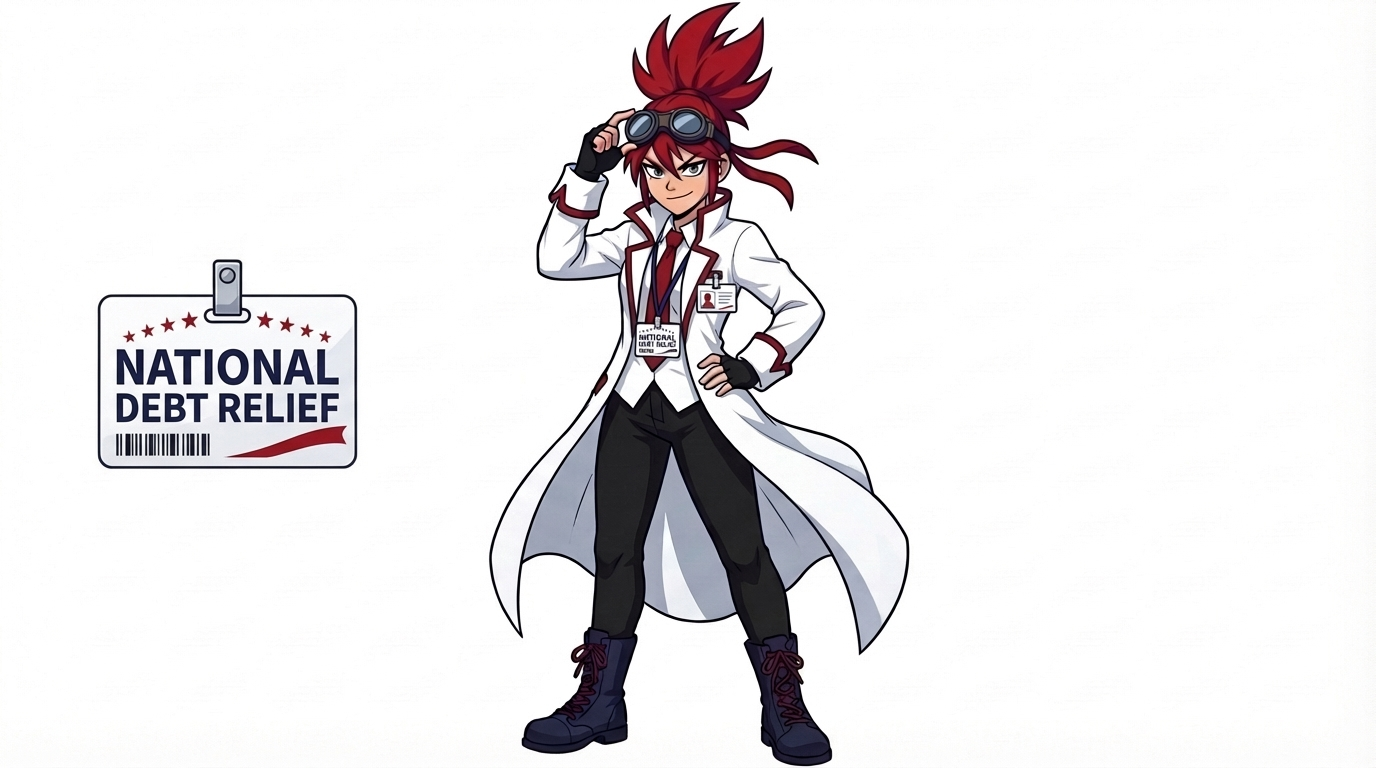
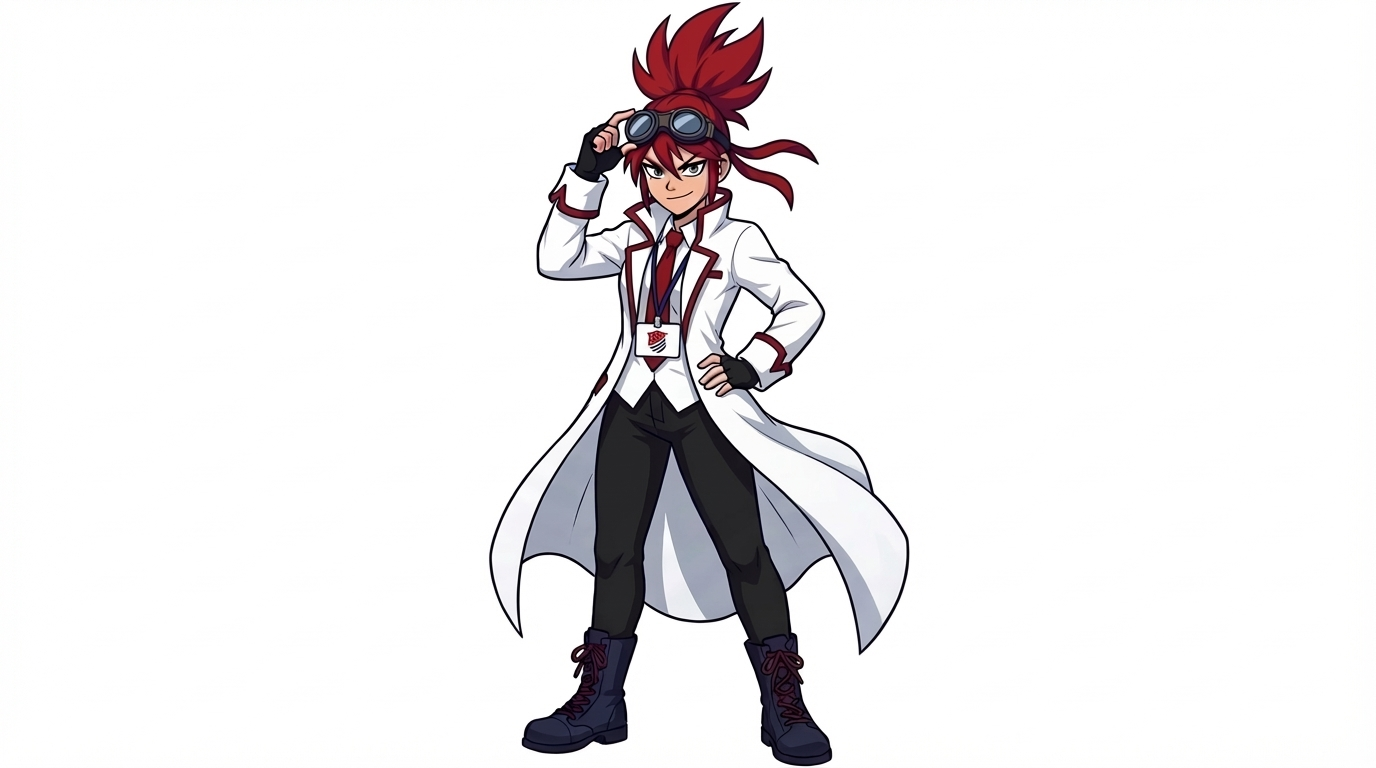
Add character generation skill, rule, and corrected casual mascot
- .cursor/rules/boom-tech-character.mdc: canonical character spec
  for consistent Nano Banana generation (design, colors, badge, variants)
- .cursor/commands/generate-character-image.md: slash command skill
  for generating character images with variant support
- Updated casual mascot: single lanyard badge with NDR shield logo
  only (no wordmark text, no duplicate badges)

Made-with: Cursor

Changed region(s): [[0.0625, 0.3125, 0.2812, 0.625], [0.5, 0.3438, 0.5625, 0.4062], [0.4688, 0.4062, 0.5, 0.4688]]

diff --git a/.cursor/commands/generate-character-image.md b/.cursor/commands/generate-character-image.md
@@ -1,0 +1,79 @@
+---
+description: Generate a Boom Tech x NDR mascot character image using Nano Banana MCP. Supports casual and action (bazooka) variants.
+---
+
+## User Input
+
+```text
+$ARGUMENTS
+```
+
+## Instructions
+
+Generate a Boom Tech x NDR mascot character image using the Nano Banana MCP (`user-nanobanana` server).
+
+Before generating, read the character specification rule at `.cursor/rules/boom-tech-character.mdc` for the canonical character design, colors, and badge requirements.
+
+### Determine Variant
+
+From the user input, determine which variant to generate:
+
+- If input contains "casual", "standing", "no weapon", "no bazooka", or "relaxed": generate the **casual** variant (no weapon)
+- If input contains "action", "bazooka", "rocket", "weapon", or "battle": generate the **action** variant (with rocket launcher)
+- If unclear, default to **casual**
+
+### Determine Context
+
+From the user input, extract:
+
+- **Scene or context**: what the character is doing or what diagram/slide they appear in
+- **Aspect ratio**: default to `16:9` unless user specifies otherwise
+- **Output path**: save to the `images/character/` directory with a descriptive filename
+
+### Build the Prompt
+
+Construct the Nano Banana prompt following this template. Replace bracketed items based on user input and variant:
+
+```
+Create a [ASPECT_RATIO] anime/manga cel-shaded illustration of the Boom Tech mascot character.
+The character has bright spiky red hair swept upward with a red headband, and steampunk-style
+goggles with navy blue frames pushed up on their forehead. They wear a flowing white labcoat
+with red accent trim along the collar and cuffs, open in front showing a red necktie over a
+dark shirt. Black fitted pants and dark navy combat boots with red laces. A single lanyard
+employee badge hangs around their neck — the badge shows only the NDR shield logo: a navy
+blue (#1F2147) shield shape with a red (#A31921) flag/banner accent and small decorative
+stars on a white card. No text on the badge, no duplicate badges.
+
+[VARIANT_DESCRIPTION]
+
+[SCENE_CONTEXT]
+
+White background. Color palette: deep navy blue (#1F2147) and flag red (#A31921).
+Clean anime cel-shaded style. [ADDITIONAL_INSTRUCTIONS]
+```
+
+**Variant descriptions:**
+
+- Casual: "The character stands in a confident relaxed pose — [specific pose from user input or default: one hand adjusting goggles, other on hip, confident smirk]. No weapon."
+- Action: "The character is in a dynamic action pose, slightly crouched, carrying a large dark metallic rocket launcher over one shoulder with red accent highlights. Labcoat billowing behind them. Determined, focused expression."
+
+### Call Nano Banana
+
+Use `CallMcpTool` with server `user-nanobanana` and tool `gemini_generate_image`:
+
+- `prompt`: the constructed prompt above
+- `aspect_ratio`: from user input or `"16:9"`
+- `conversation_id`: `"pm-demo-char"`
+- `use_image_history`: `true`
+- `reference_images`: always include both:
+  - `/Users/kelly.cruz/Documents/devRoot/BTNDRMASTER/NDR-FRONTENDS/BTAssist/PMDEMOASSIST/LOGO_DESIGN.3b081599.png`
+  - `/Users/kelly.cruz/Documents/devRoot/BTNDRMASTER/NDR-FRONTENDS/BTAssist/PMDEMOASSIST/brandguide/registered-trademark-shield-ndr.svg`
+- `output_path`: the determined output path
+
+### Post-Generation
+
+After generation, confirm:
+- Character matches the canonical specification
+- Only ONE lanyard badge is visible with the shield logo only (no wordmark text)
+- Correct variant was generated (casual vs action)
+- NDR brand colors are present
